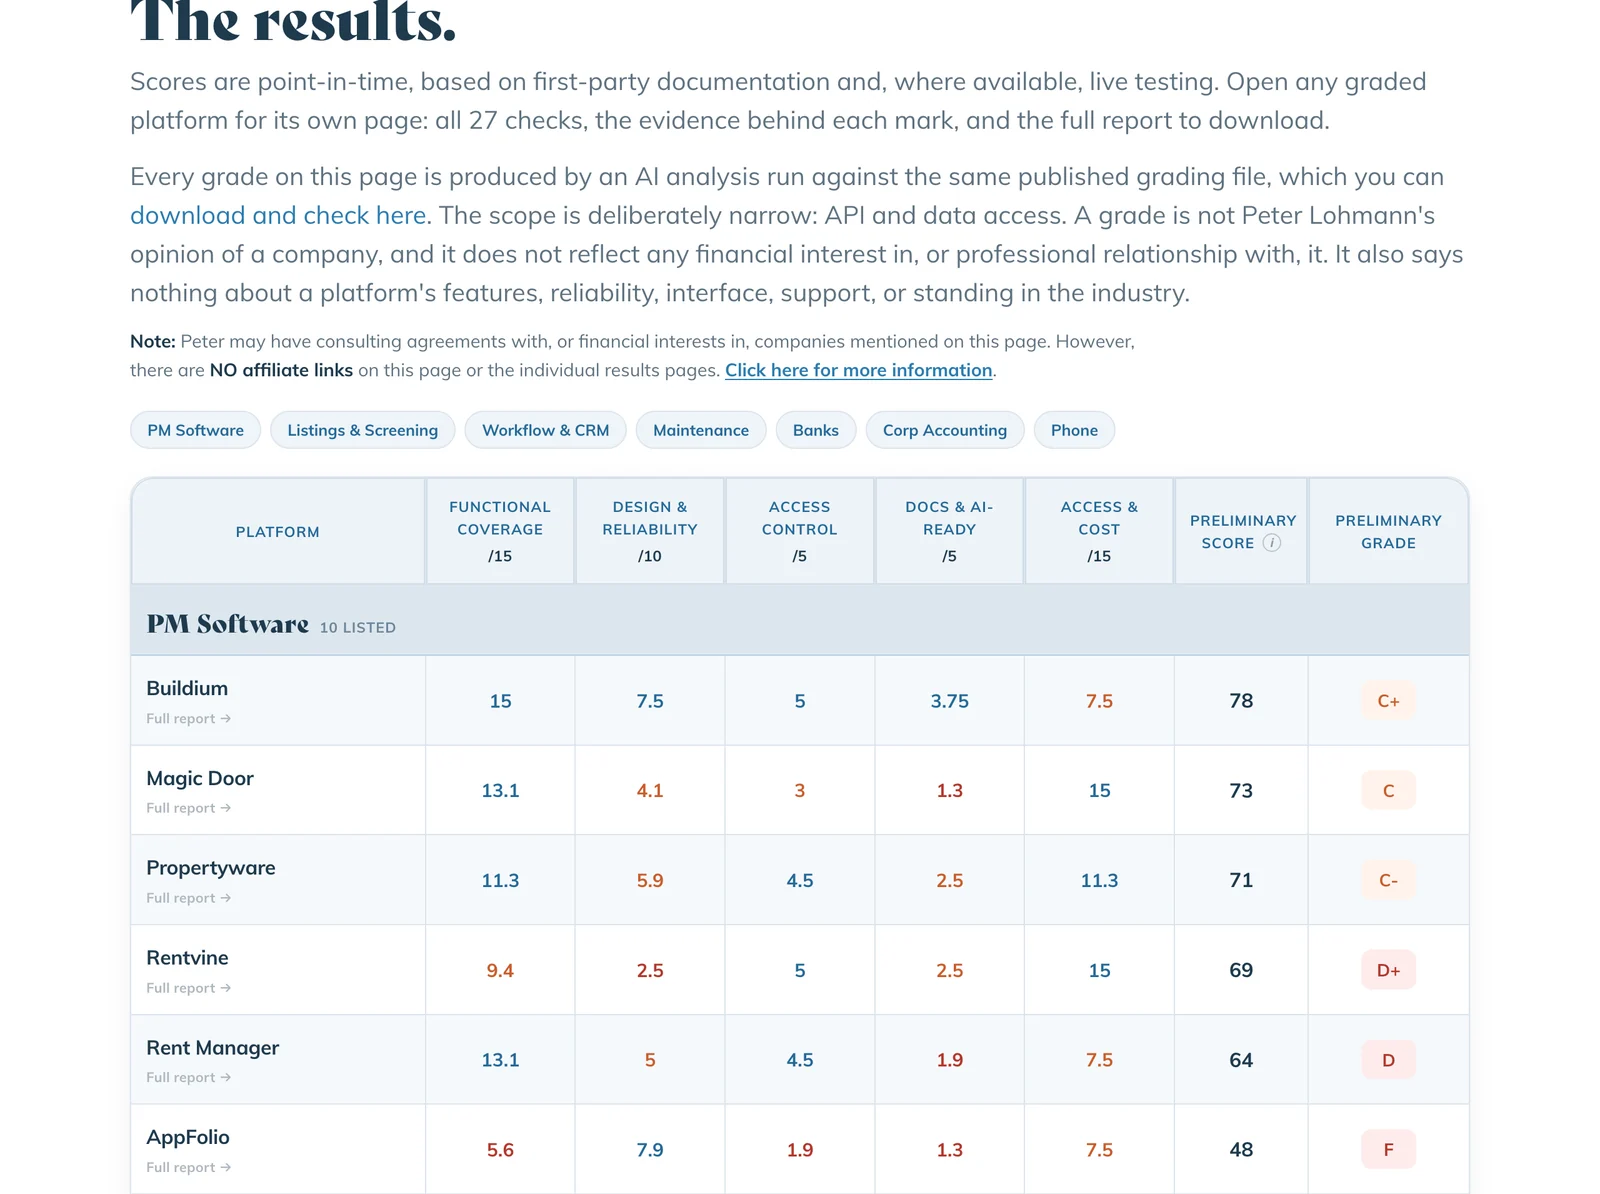
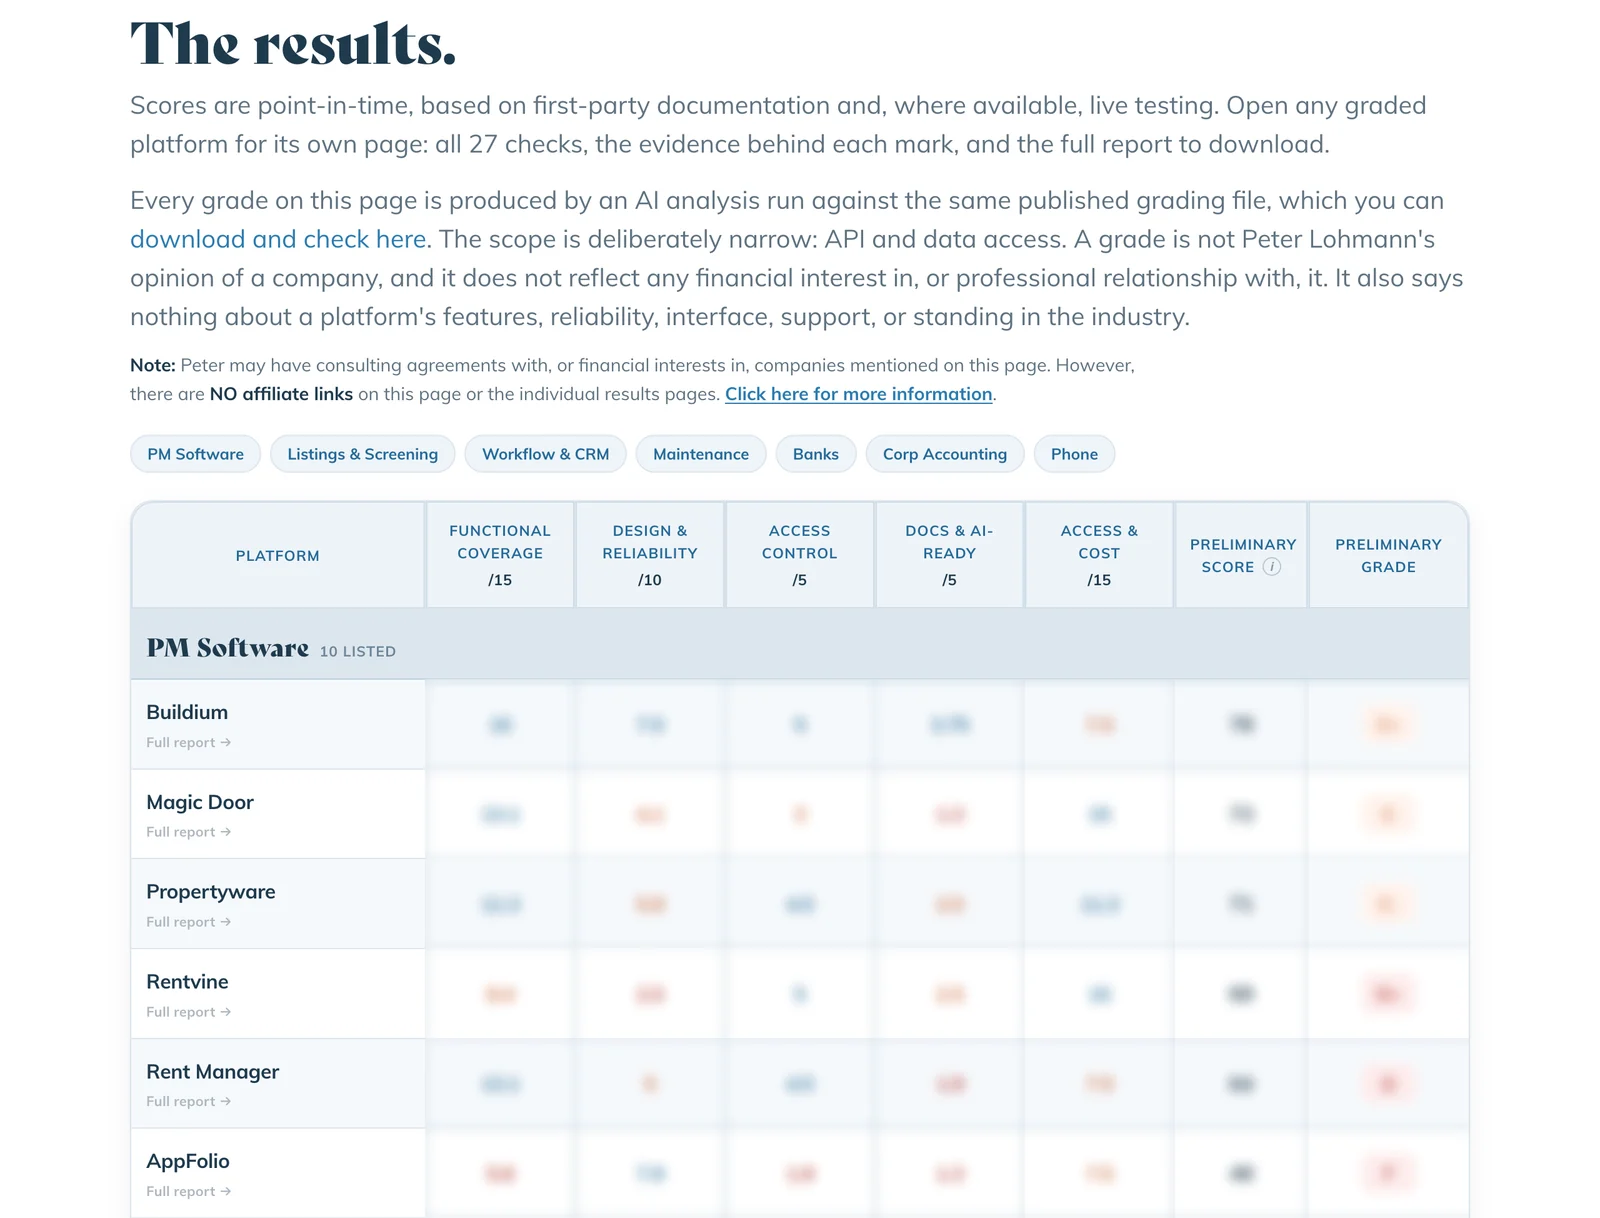
API Report Card post: blur the scores in the results screenshot

diff --git a/blog/why-i-built-the-pm-api-report-card.html b/blog/why-i-built-the-pm-api-report-card.html
@@ -104,7 +104,7 @@ document.getElementsByTagName("script")[0].parentNode.insertBefore(s, document.g
 
 <p>Mark Brower and I got into the bigger version of this question on <a href="https://www.youtube.com/watch?v=gT0ZQ0t9JIY" target="_blank" rel="noopener">a recent episode of The Crane Podcast</a>. Mark has switched PM software twice, and API openness was a big factor both times. His bet is that platforms walling off your data from AI are going to get their lunch eaten. The other camp says run everything in one system and let that vendor build the AI for you. I can argue both sides. Either way, you can't make that call intelligently without knowing how good each platform's API really is. Until now, nobody in our industry was measuring it.</p>
 
-<figure><a href="/api-grader/"><img src="../images/blog/why-i-built-the-pm-api-report-card--01.webp" alt="The PM API Report Card results table, showing preliminary category scores and letter grades for property management software platforms" loading="lazy" /></a><figcaption>Preliminary scores. Click through to see how your platforms did.</figcaption></figure>
+<figure><a href="/api-grader/"><img src="../images/blog/why-i-built-the-pm-api-report-card--01.webp" alt="The PM API Report Card results table, with the scores and grades blurred out" loading="lazy" /></a><figcaption>Scores blurred here on purpose. Click through to see how your platforms did.</figcaption></figure>
 
 <h2>How the grading works</h2>
 
